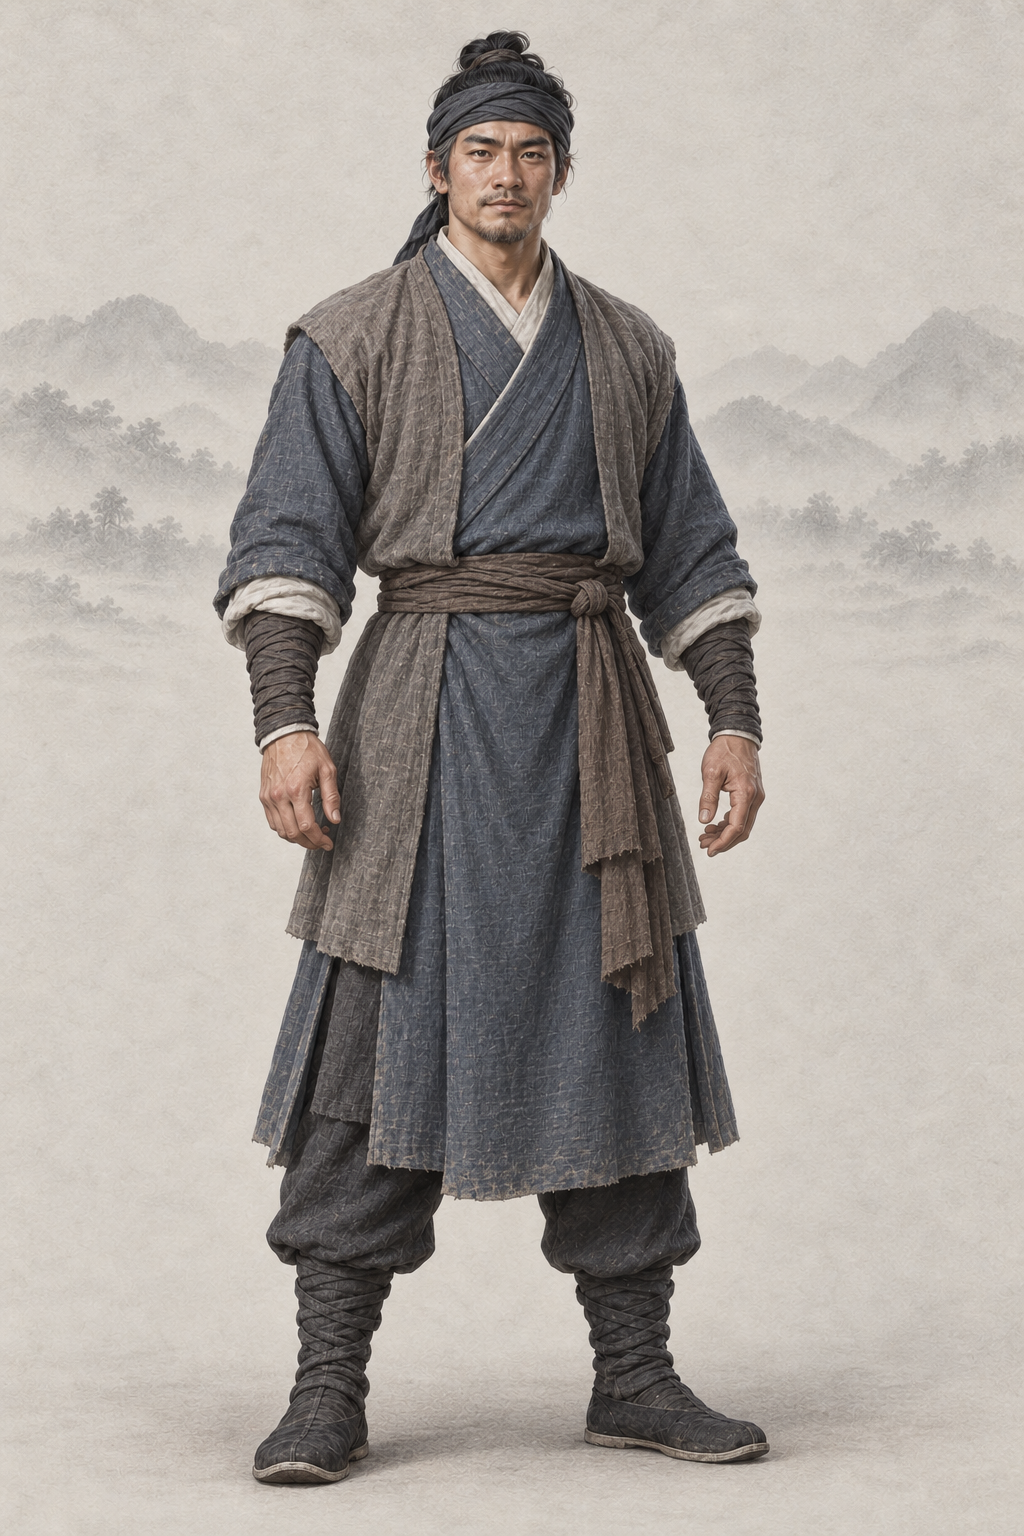
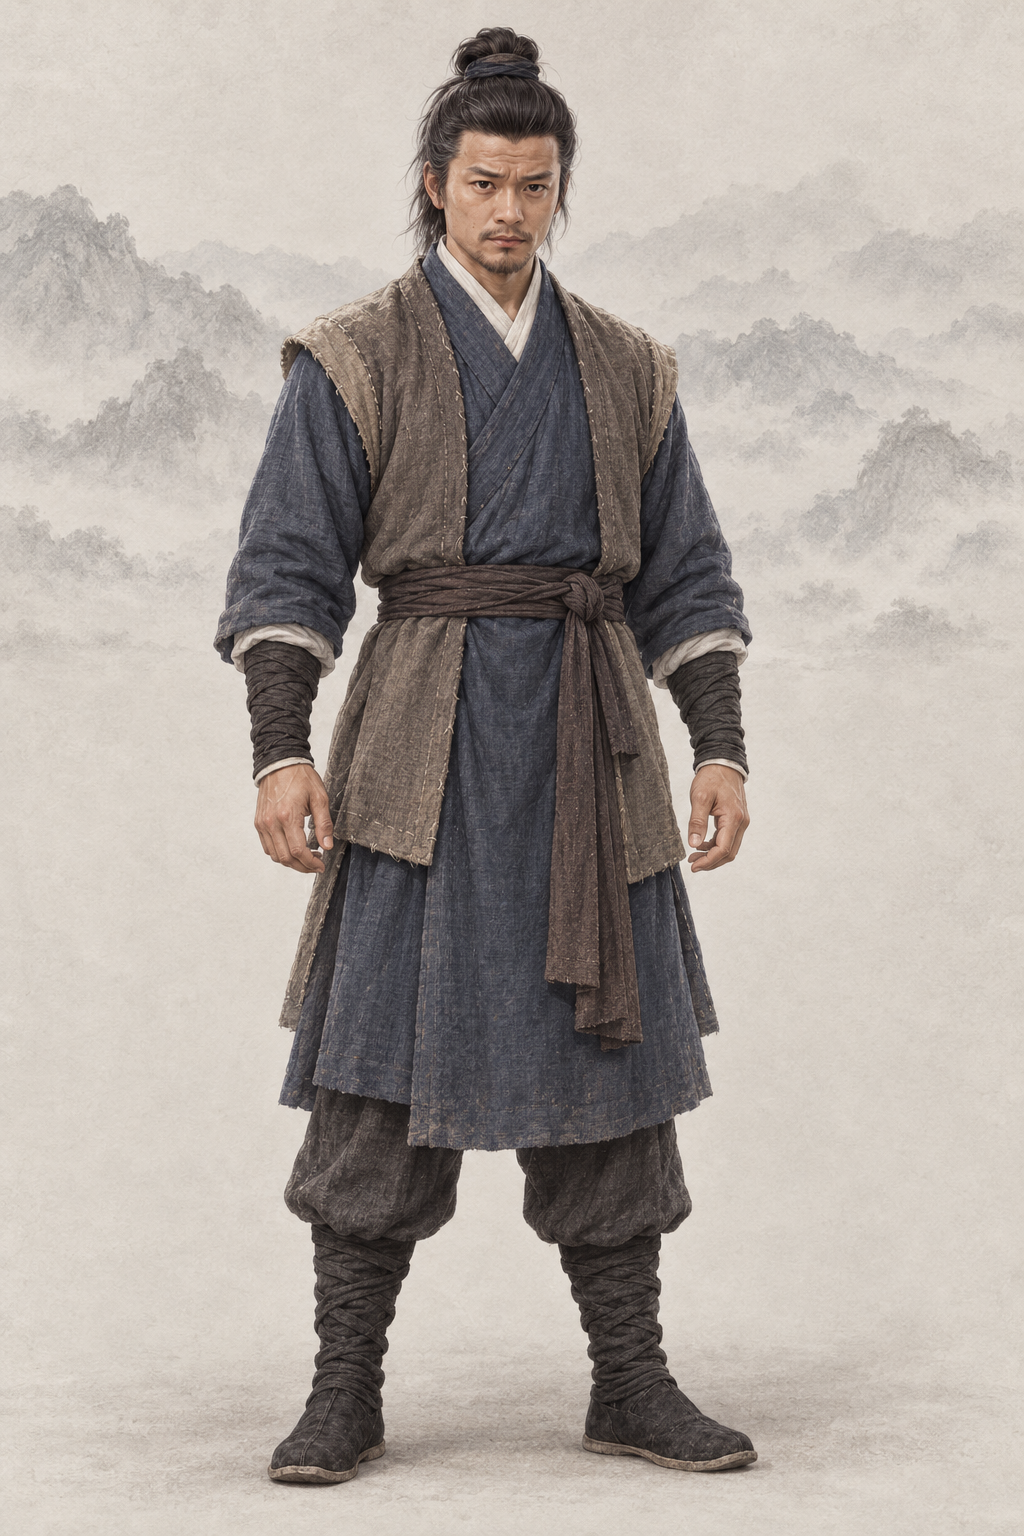
assets(character): por_npc_guojing__ch03_prime_base 郭靖（codex · AR-32 经典剧照 + 基线）
参考 1983 TVB《射雕英雄传》（本机无 1995 版剧照，取同一人物射雕经典造型） 剧照（guojing_1983_huangrihua_caption_verified_front.jpg）与两张同性别基线重出；提示词写回、frontmatter 加 classic_ref。

Changed region(s): [[0.0, 0.0, 0.875, 0.9688], [0.75, 0.1875, 1.0, 0.4062]]

diff --git a/assets/default/prompts/characters/ch03-shendiao/npc_guojing.md b/assets/default/prompts/characters/ch03-shendiao/npc_guojing.md
@@ -14,9 +14,16 @@ references:
 status: new
 redo_reason: "S 级神雕郭靖尚无立绘；上传本轮新出的射雕郭靖作身份参考，同一张脸长到四十岁的襄阳守城大侠"
 reference_upload:
+- .agents/coord/imagegen-reference/identity-20261001/guojing_1983_huangrihua_caption_verified_front.jpg
 - assets/default/character/male/ch02/por_npc_guojing__ch02_youth_base.png
 - assets/default/baseline/character/male/ref_npc_linghuchong__ch05_base01.png
+- assets/default/baseline/character/male/ref_npc_xiaofeng__ch01_base01.png
 codex_prompt_rev: 2026-10-02
+classic_ref:
+  version: 1983 TVB《射雕英雄传》（本机无 1995 版剧照，取同一人物射雕经典造型）
+  stills:
+  - .agents/coord/imagegen-reference/identity-20261001/guojing_1983_huangrihua_caption_verified_front.jpg
+  anchor: assets/default/character/male/ch02/por_npc_guojing__ch02_youth_base.png
 ---
 
 <!-- full-coverage-import:current-policy:v1 -->
@@ -29,6 +36,28 @@ codex_prompt_rev: 2026-10-02
 # 郭靖 · 《神雕侠侣》（ch03）
 
 ## Gemini 提示词
+
+> 2026-10-02 AR-32 重出（5 号出图员，codex exec · image_gen）：主要角色改为参考经典影视版剧照加项目基线生成。上传顺序：1983 TVB《射雕英雄传》（本机无 1995 版剧照，取同一人物射雕经典造型） 剧照 1 张（guojing_1983_huangrihua_caption_verified_front.jpg）、本轮新出的射雕郭靖作身份锚点，最后两张为同性别画风基线（缩小版 JPEG）。剧照只借造型、气质与面部特征，画面按项目画风重绘、不复制照片。上一版（AR-31 文字版）保留在下一节作历史。
+
+```text
+生成一张 2:3 竖幅全身人物立绘：单人、单一视角、完整全身——头顶、双手、双脚和手中器物的两端都在画面内，四周留出自然空白；人物站姿自然，身体基本朝向正面，头部端正（不歪头、不仰不俯），镜头平视。
+【画风】写实手绘古风人物插画，与本项目写实武侠角色立绘同一画风：人物是完整、坚实、比例真实的写实绘画；皮肤有真实质感——细小毛孔、细纹、晒痕、轻微色斑和自然的左右不对称，不磨皮、不油亮；头发有一根根的发丝和自然碎发；布料看得出经纬纹理、厚薄和自然垂坠的褶皱，带穿用过的轻微旧化，但完整不破烂；整体设色低饱和、沉稳；柔和的自然光从左上方照来，明暗过渡自然，不打舞台光、轮廓光或美颜柔光。这是手绘写实绘画，不是照片，不是三维渲染，也不是动漫或游戏 CG。
+【背景】不透明的暖浅灰色纸底，只在远处有极淡的水墨远山和薄雾，大面积留白；人物与背景明暗分明、轮廓边缘干净完整（后续要自动抠图），水墨和纸纹只在背景里，不侵入人物和衣服；脚下只有很淡的一点接触阴影。
+【人物】郭靖，《神雕侠侣》南宋襄阳守城的大侠，黄蓉之夫、郭芙郭襄之父；十六年之前的守城时期。忠厚沉稳、为国为民。
+【身份参考】随提示词上传的第 2 张图是本项目刚画好的射雕时期郭靖本人：这是同一个人约二十年后的样子——保持同一张方圆脸、浓眉大眼、宽厚鼻梁和厚唇，自然长到四十岁，不要换成另一个人。不要照搬图中的弓箭、衣服和姿势。
+【年龄与体态】约四十岁的中年男子，身材更加魁梧厚实、肩背宽阔，站姿沉稳。
+【经典造型】以八十年代经典港剧里的郭靖为蓝本（第 1 张剧照是他青年时的样子）：浓眉大眼、方正敦厚的脸、朴实温暖的神情；如今是四十岁的郭大侠——沉稳厚重、短须，一身朴素的深色布袍，眉宇间是为国为民的担当。
+【面容】同一张脸长到中年：额头有两道横纹，眼角有细纹，两鬓微霜，唇上与下巴留着修剪整齐的短须；眼神敦厚坚定；日晒肤色。英武沉稳、仍然好看。
+【发式】黑发整齐束髻，用深色裹巾收住。
+【服饰】南宋汉族大侠装束：深靛色交领右衽窄袖布袍，外罩灰褐短褂，简洁布腰带与布靴；不穿官服。
+【道具】双手空着（降龙十八掌不画特效）。
+【姿态与神情】正面稳稳站立，双手自然垂在身侧或一手按在腰带上；神情沉稳坚毅，有守城者的担当。
+【不要】画面里不要任何文字、题款、印章、签名、水印、边框、分格或多视图；不要第二个人；不要幼态（童颜、娃娃脸、婴儿肥、儿童或少年身材、大头小身）；不要塑料感皮肤、磨皮美颜、网红脸（尖下巴大眼高鼻的模板脸）、过度对称、浓妆、偶像式打光、蜡像感；不要照片质感、三维渲染或动漫大眼；不要歪头、斜镜头；不要多指、缺指（设定的伤残除外）、手与器物粘连或悬空；汉式交领必须右衽（穿着者的左襟压在右襟上），不要左衽（设定为少数民族服制的除外），不要水平镜像；不要现代物品、发光特效、法阵或能量光。不要换成另一张脸；不要青年面孔；不要将军铠甲、官印；不要龙形掌风特效。
+【参考图】随提示词上传的参考图共 4 张，按顺序：第 1 张是这个角色经典影视造型的剧照：借鉴其发型、服饰、配色、标志道具、气质和面部特征，让人一眼认出是这个角色；但必须重新绘制成本项目的画风，不要照片质感，不要照搬剧照的构图、光影、背景和姿势，也不要做成照片修图；剧照与上文文字有出入时，以上文文字为准。第 2 张是本项目刚画好的同一人物，用法见上文【身份参考】。最后两张是本项目的立绘画风基线：画风、用色、光线、质感和暖浅灰纸底加淡水墨的背景以它们为准——精细写实的数字手绘插画，不是油画，不要厚涂笔触和画布纹理；基线图里人物的长相、年龄、发型、服饰和姿势一律不取。
+【去 AI 味】手绘插画质感，不是 CG 渲染：不要过度光滑的皮肤、完美对称的五官、塑料高光、过度锐利的发丝；保留自然的笔触和细微不完美。
+```
+
+## AR-31 文字版 Gemini 提示词（2026-10-02 凌晨；AR-32 剧照版之前，历史，不再用于出图）
 
 > 2026-10-02 AR-31 改写（1 号出图员，codex exec · image_gen 出图）：重要人物借鉴经典影视造型，只写成文字——不写演员名、不上传剧照、原创面孔；主角和美人画得好看，去 AI 味，禁止幼态。出图时上传两张同性别基线立绘作画风参考（放在最后）；第 1 张为身份参考（por_npc_guojing__ch02_youth_base.png）。审核组原稿保留在下一节作历史。
 
